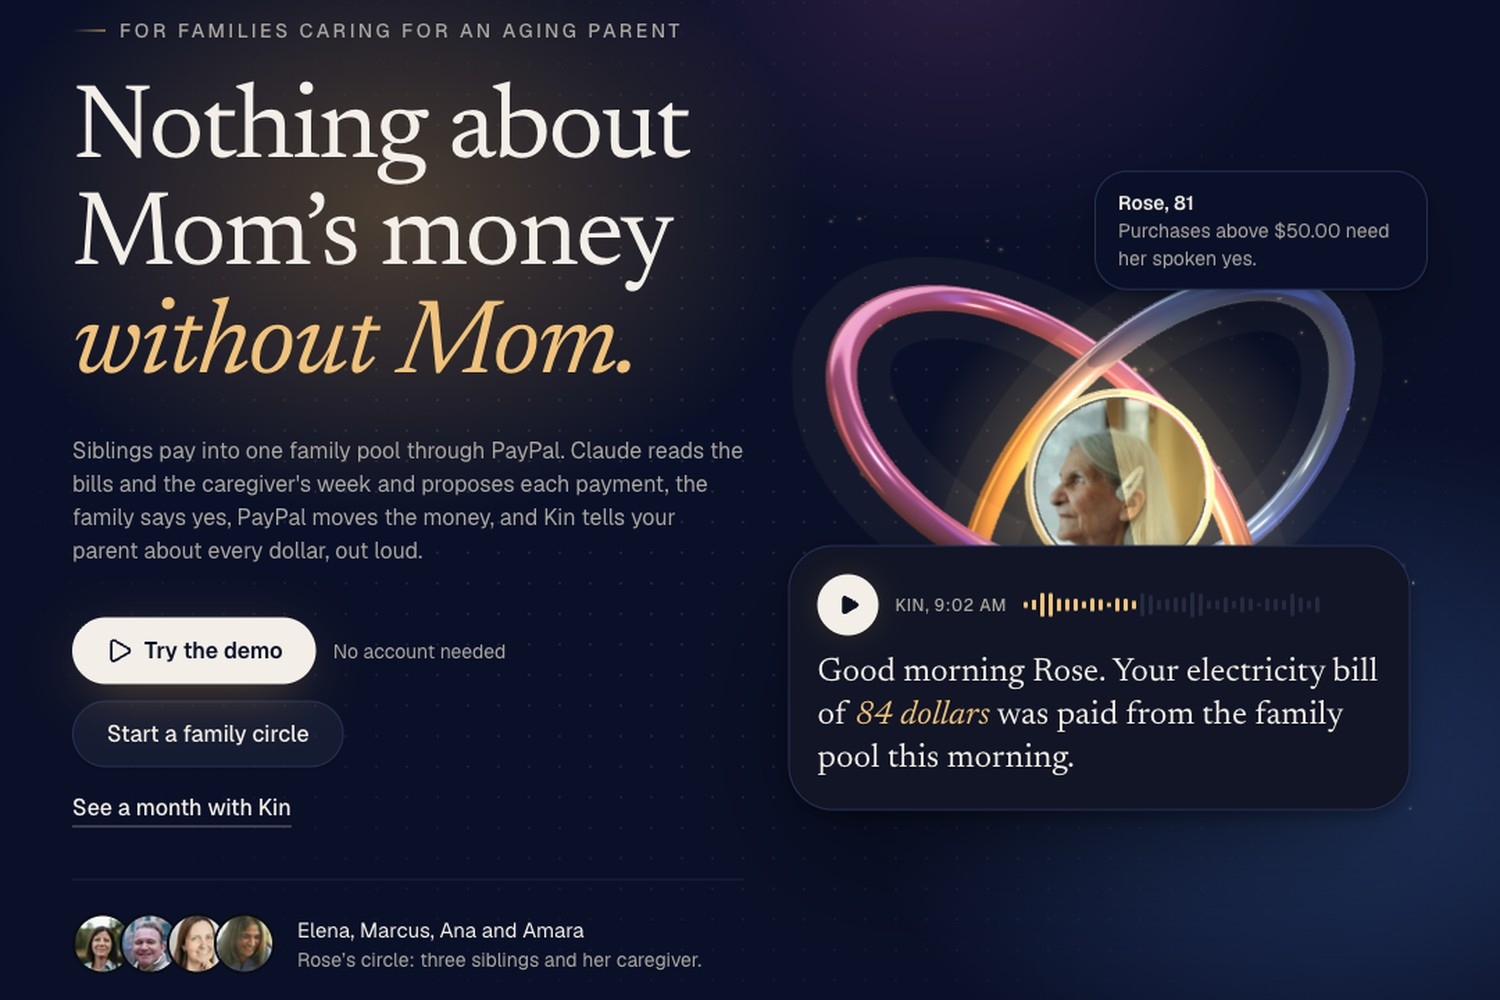
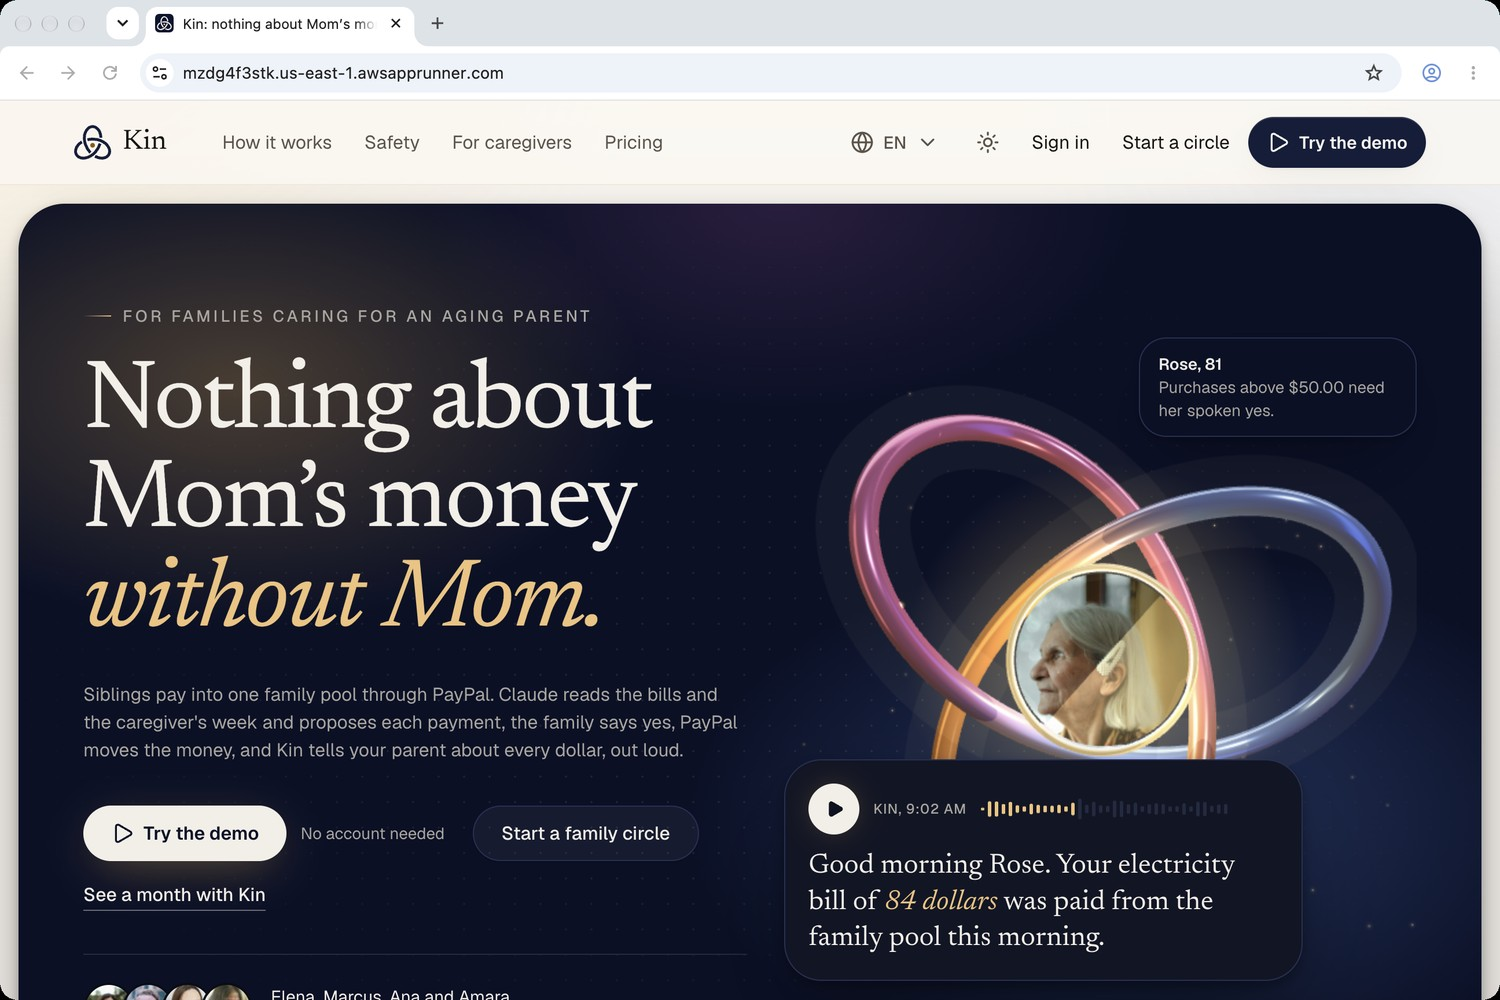
docs: gallery and thumbnail as real browser-window captures with the address bar
Every image now shows Chrome's tab and address bar with the app's URL (or
sandbox.paypal.com for PayPal's checkout, shown over Kin's own window), taken
from one demo circle on the hosted app on 12 November 2026.

diff --git a/docs/submission/gallery/CAPTIONS.md b/docs/submission/gallery/CAPTIONS.md
@@ -1,16 +1,18 @@
 # Devpost gallery captions
 
-Upload in this order. Every screenshot is the hosted app on 12 November 2026, in a demo circle.
+Upload in this order. Every image is a capture of a real Chrome window, toolbar and address bar included, on 12 November 2026: the hosted app in one demo circle, PayPal's own sandbox checkout, and the public repository.
 
-1. `01-hero.jpg`: Nothing about Mom's money without Mom. One family pool on PayPal; Claude proposes, people approve, PayPal pays, and Rose hears every dollar.
+1. `01-hero.png`: Nothing about Mom's money without Mom. One family pool on PayPal; Claude proposes, people approve, PayPal pays, and Rose hears every dollar.
 2. `02-overview.png`: The family's month at a glance, with the five-step judge's path. Each step says what is real: PayPal sandbox, Claude, or simulated.
-3. `03-ask-kin-refill.png`: An agent that buys within the parent's rules. Claude raises Rose's refill; her own standing permission approves it, not Kin.
-4. `04-agent-toolkit.png`: Ask Kin reads PayPal's own record through the PayPal Agent Toolkit: order COMPLETED, matching Kin's ledger.
-5. `05-payout-success.png`: PayPal pays Amara. Recorded as paid only when the payout item read back from PayPal says SUCCESS; the refill shows "paid, as PayPal confirmed".
-6. `06-listen.png`: Rose's first screen. Every confirmed payment, said in one calm sentence, in very large type, read aloud.
-7. `07-record.png`: The append-only, double-entry ledger in AG Grid. Real PayPal sandbox entries sit beside labelled simulated history, each with PayPal's ID.
-8. `08-ag-studio.png`: Family money studio on AG Studio: a PayPal-verified tile, a fairness gap widget, and Kin's agent answering beside Studio's own.
-9. `09-letter-read.png`: Claude reads a photographed bill: payee, amount and due date, each shown with the words it was read from. A person reviews before anything is paid.
-10. `10-shifts-bryntum.png`: The care calendar on Bryntum Scheduler. A visit is paid only when the caregiver's check-in and the family's word agree.
-11. `11-developers-mcp.png`: Open Kin. A member's own assistant signs in to Kin's MCP server through OAuth 2.1 with PKCE; it can read and propose, never approve.
-12. `12-architecture.png`: The AI proposes, people approve, PayPal's record decides. The money core is deterministic code with no model in it.
+3. `03-add-money.png`: A sibling tops up the family pool through PayPal. The dialog says plainly that this is PayPal's sandbox, with test money.
+4. `04-paypal-checkout.png`: PayPal's own checkout (sandbox.paypal.com), opened by the PayPal JavaScript SDK v6, with Pay in 4 and Pay Monthly offered.
+5. `05-ask-kin-refill.png`: An agent that buys within the parent's rules. Claude raises Rose's refill; her own standing permission approves it, not Kin.
+6. `06-agent-toolkit.png`: Ask Kin reads PayPal's own record through the PayPal Agent Toolkit: order and capture COMPLETED, matching the circle's record.
+7. `07-payout-success.png`: PayPal pays Amara. Recorded as paid only when the payout item read back from PayPal says SUCCESS; the refill shows "paid, as PayPal confirmed".
+8. `08-listen.png`: Rose's first screen. Every confirmed payment, said in one calm sentence, in very large type, read aloud.
+9. `09-record.png`: The append-only, double-entry ledger in AG Grid. The top-up, the refill and Amara's pay are labelled PayPal sandbox beside simulated history.
+10. `10-ag-studio.png`: Family money studio on AG Studio: a PayPal-verified tile listing PayPal's IDs, a fairness gap widget, and Kin's agent answering beside Studio's own.
+11. `11-letter-read.png`: Claude reads a photographed bill and shows the words it read; Kin notices the bill is already on the list and does not add it twice.
+12. `12-shifts-bryntum.png`: The care calendar on Bryntum Scheduler. A visit is paid only when the caregiver's check-in and the family's word agree.
+13. `13-developers-mcp.png`: Open Kin. A member's own assistant signs in to Kin's MCP server through OAuth 2.1 with PKCE; it can read and propose, never approve.
+14. `14-architecture.png`: The AI proposes, people approve, PayPal's record decides. The money core is deterministic code with no model in it.
